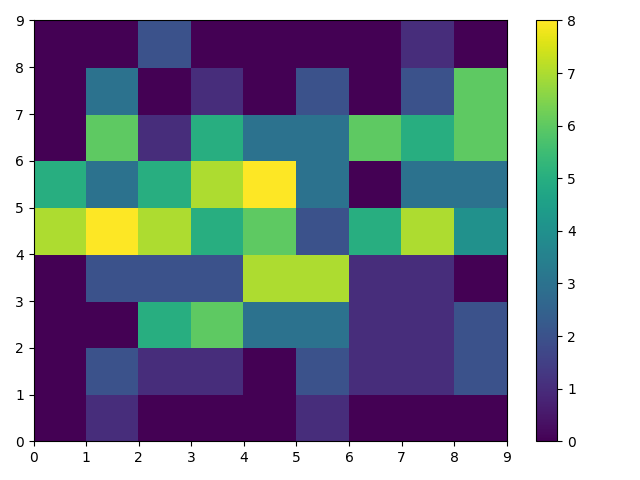
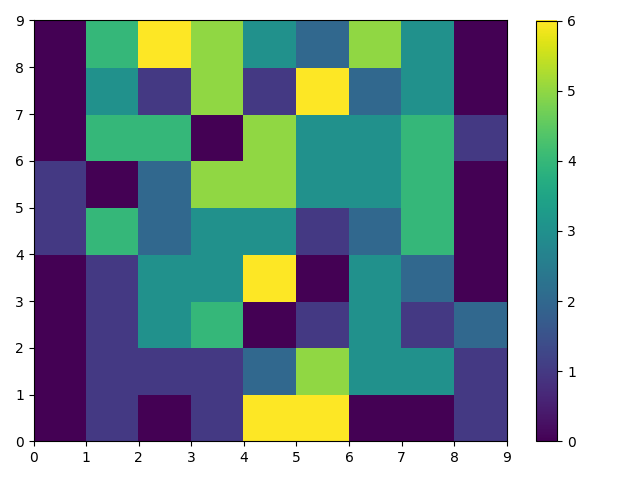
0709

diff --git a/var_parcolation/fig_cdis.py b/var_parcolation/fig_cdis.py
@@ -6,7 +6,7 @@ import scipy.optimize
 
 df = pd.read_table('ndis_t1000_nbest250.dat')
 print(df.columns.tolist())
-df_pivot = pd.pivot_table(data=df, values='c', columns='x', index='y', aggfunc=np.mean)
+df_pivot = pd.pivot_table(data=df, values='c', columns='y', index='x', aggfunc=np.mean)
 
 fig, ax = plt.subplots(1, 1)
 mappable = ax.pcolor(df_pivot.columns, df_pivot.index, df_pivot.T)
